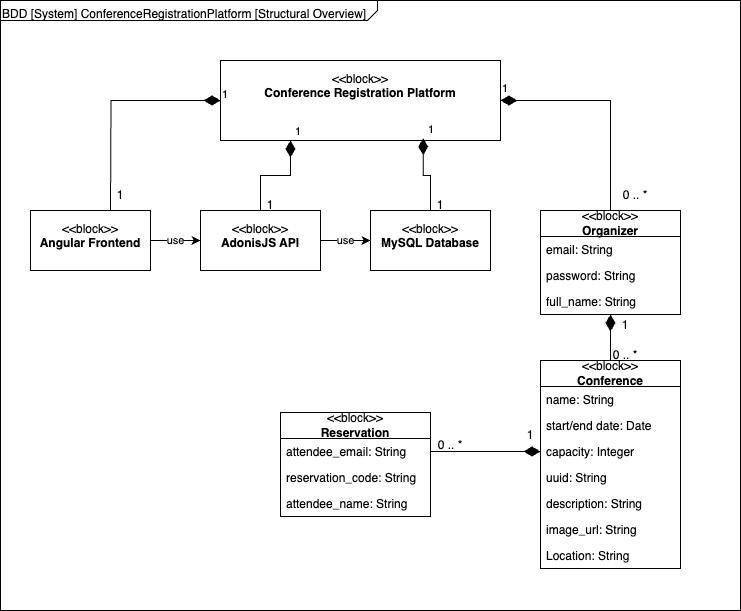
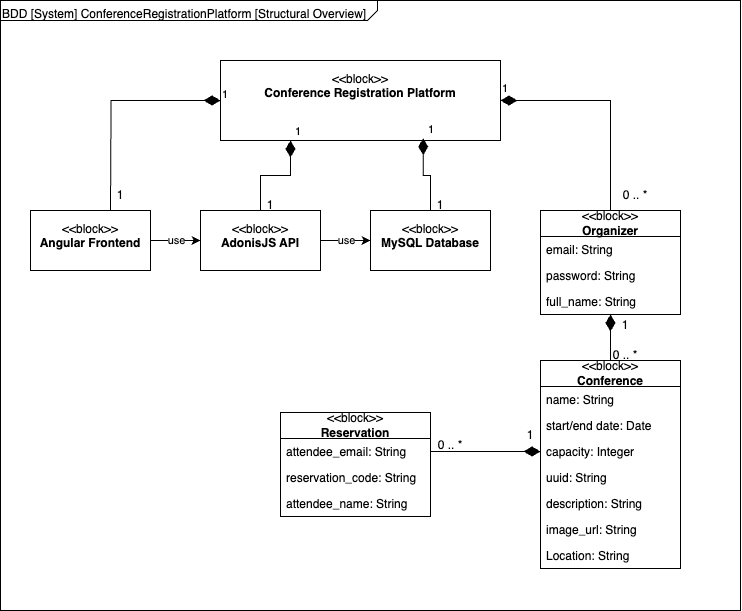
Update naming + add screenshots of diagrams

diff --git a/apps/frontend/src/app/features/auth/signup/signup.html b/apps/frontend/src/app/features/auth/signup/signup.html
@@ -3,7 +3,7 @@
     <div class="col-12 col-sm-9 col-md-6 col-lg-4">
       <h1 class="text-center mb-2">Organizer Sign up</h1>
       <p class="subtitle text-center mb-4">
-        Create your ConfReg Pro account to start managing events.
+        Create your Conference Registration Platform account to start managing events.
       </p>
 
       <form [formGroup]="form" (ngSubmit)="submit()" class="d-flex flex-column">

diff --git a/apps/frontend/src/index.html b/apps/frontend/src/index.html
@@ -2,7 +2,7 @@
 <html lang="en">
   <head>
     <meta charset="utf-8" />
-    <title>ConfReg Pro</title>
+    <title>Conference Registration Platform</title>
     <base href="/" />
     <meta name="viewport" content="width=device-width, initial-scale=1" />
     <link rel="icon" type="image/x-icon" href="favicon.ico" />
